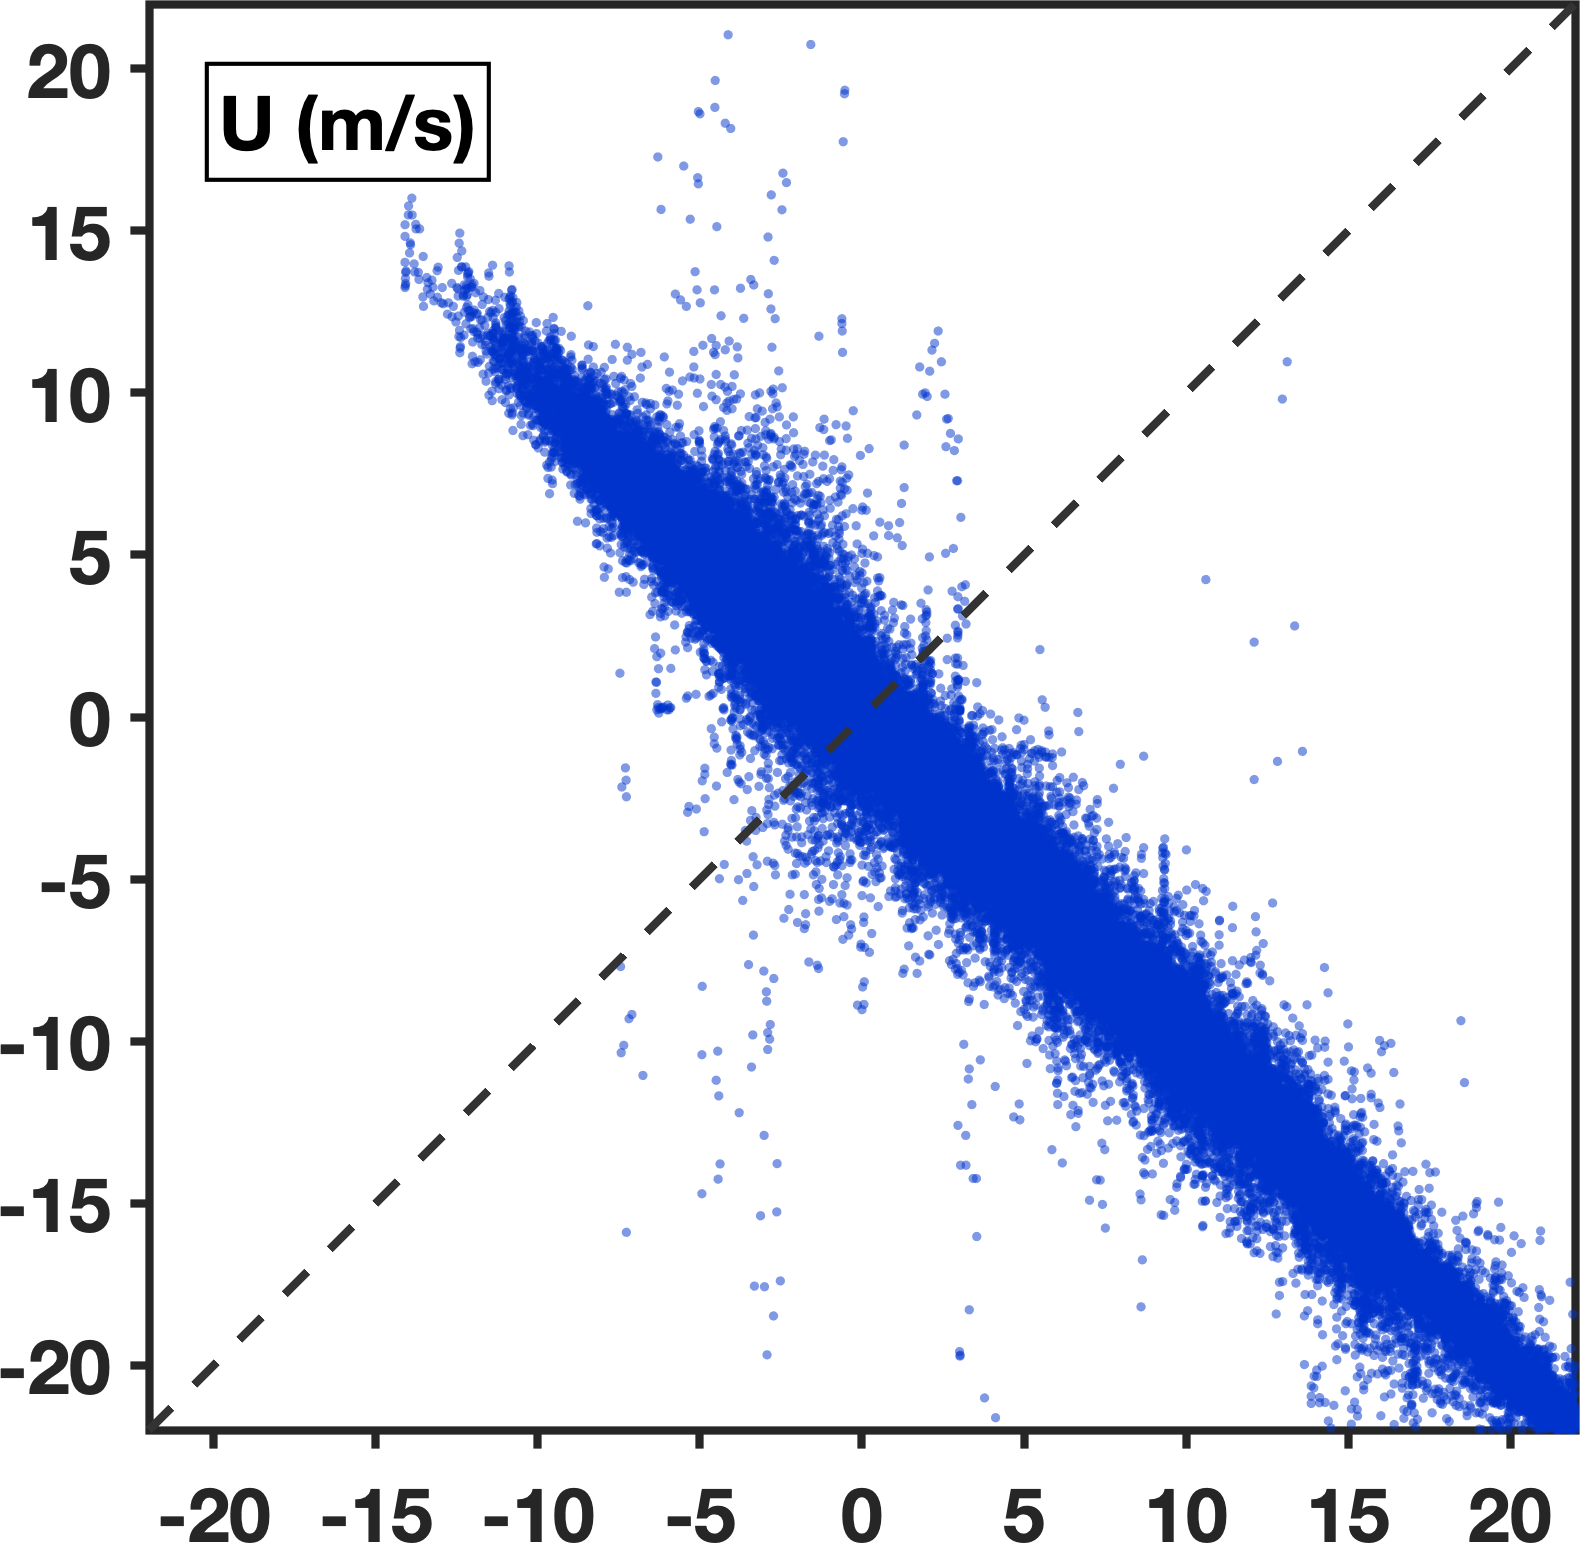
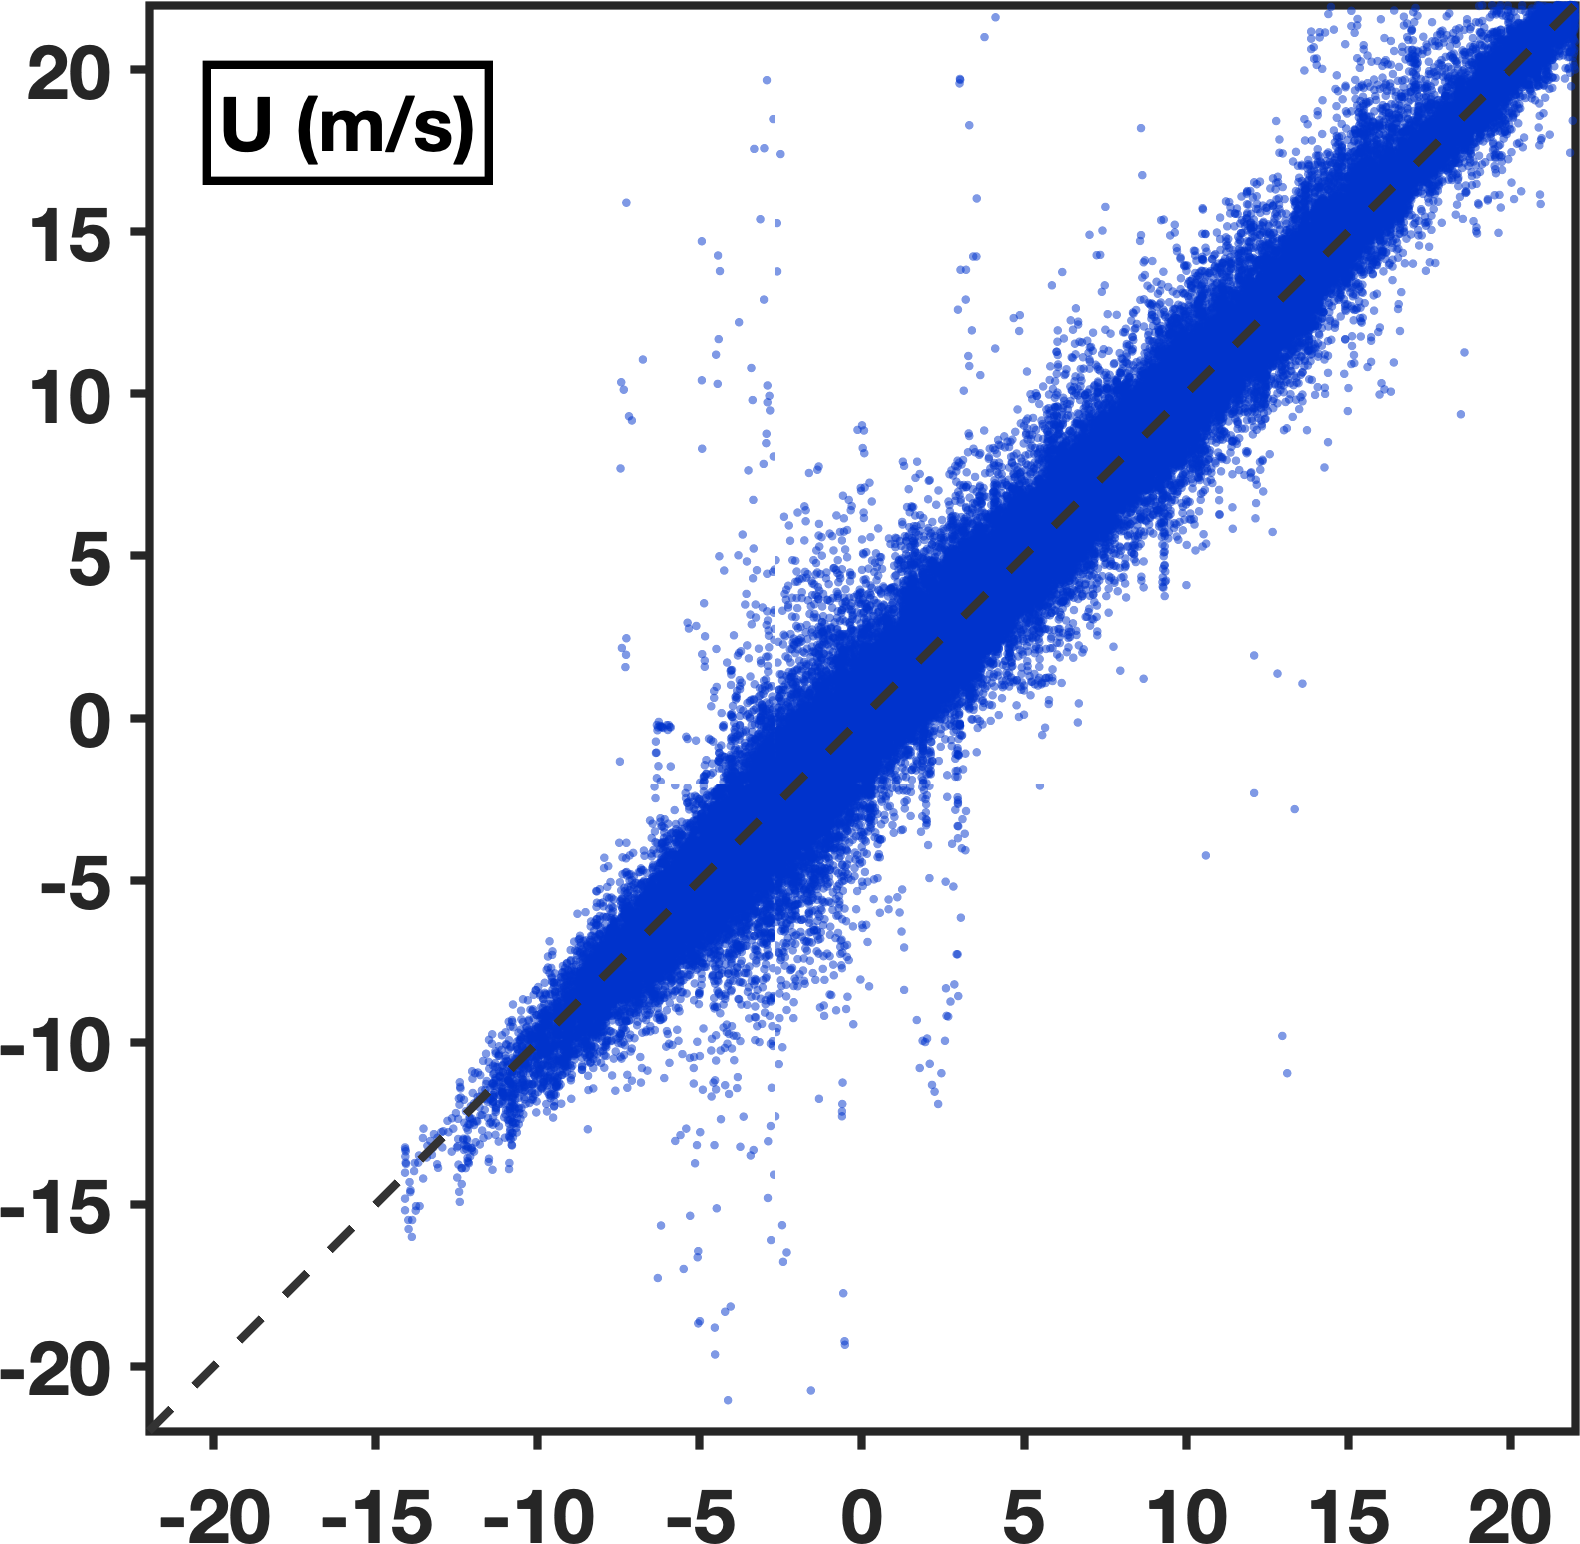
update U, V intercomp

diff --git a/ST_Correction/Intercomparison/Plot_scatter_ST_RS_1var.m b/ST_Correction/Intercomparison/Plot_scatter_ST_RS_1var.m
@@ -86,7 +86,7 @@ plot_var_ST = {[],[],[],[],[],[],[]};
 test_var_st = [];
 test_var_per = [];
 
-varid = 4;
+varid = 6;
 
 ssi = 1;
 
